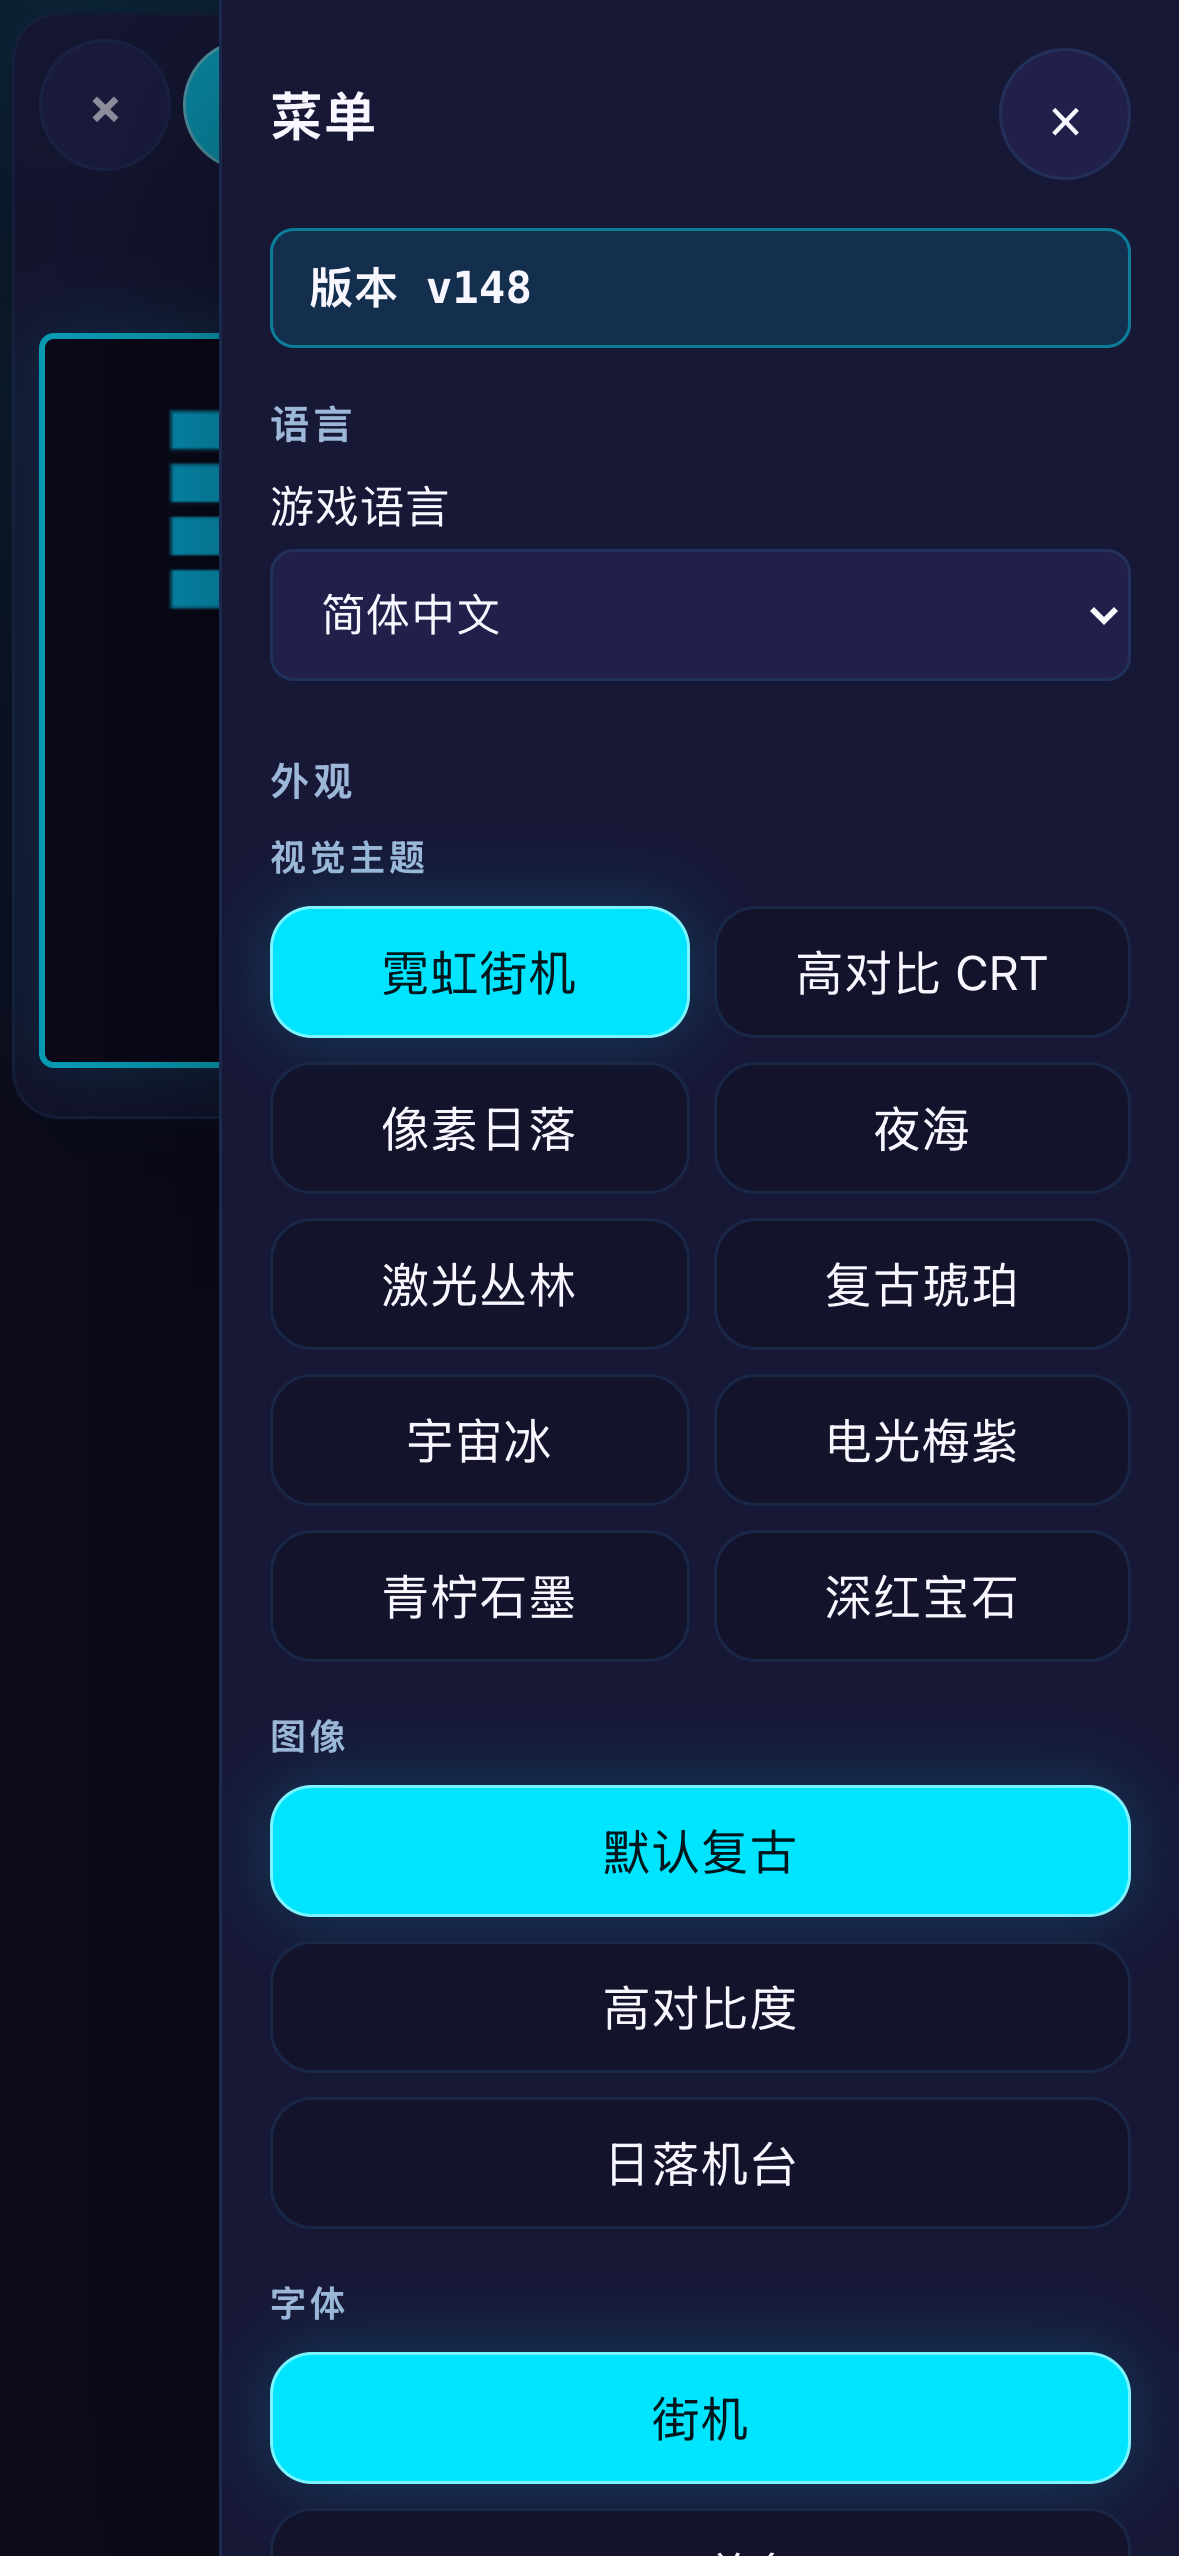
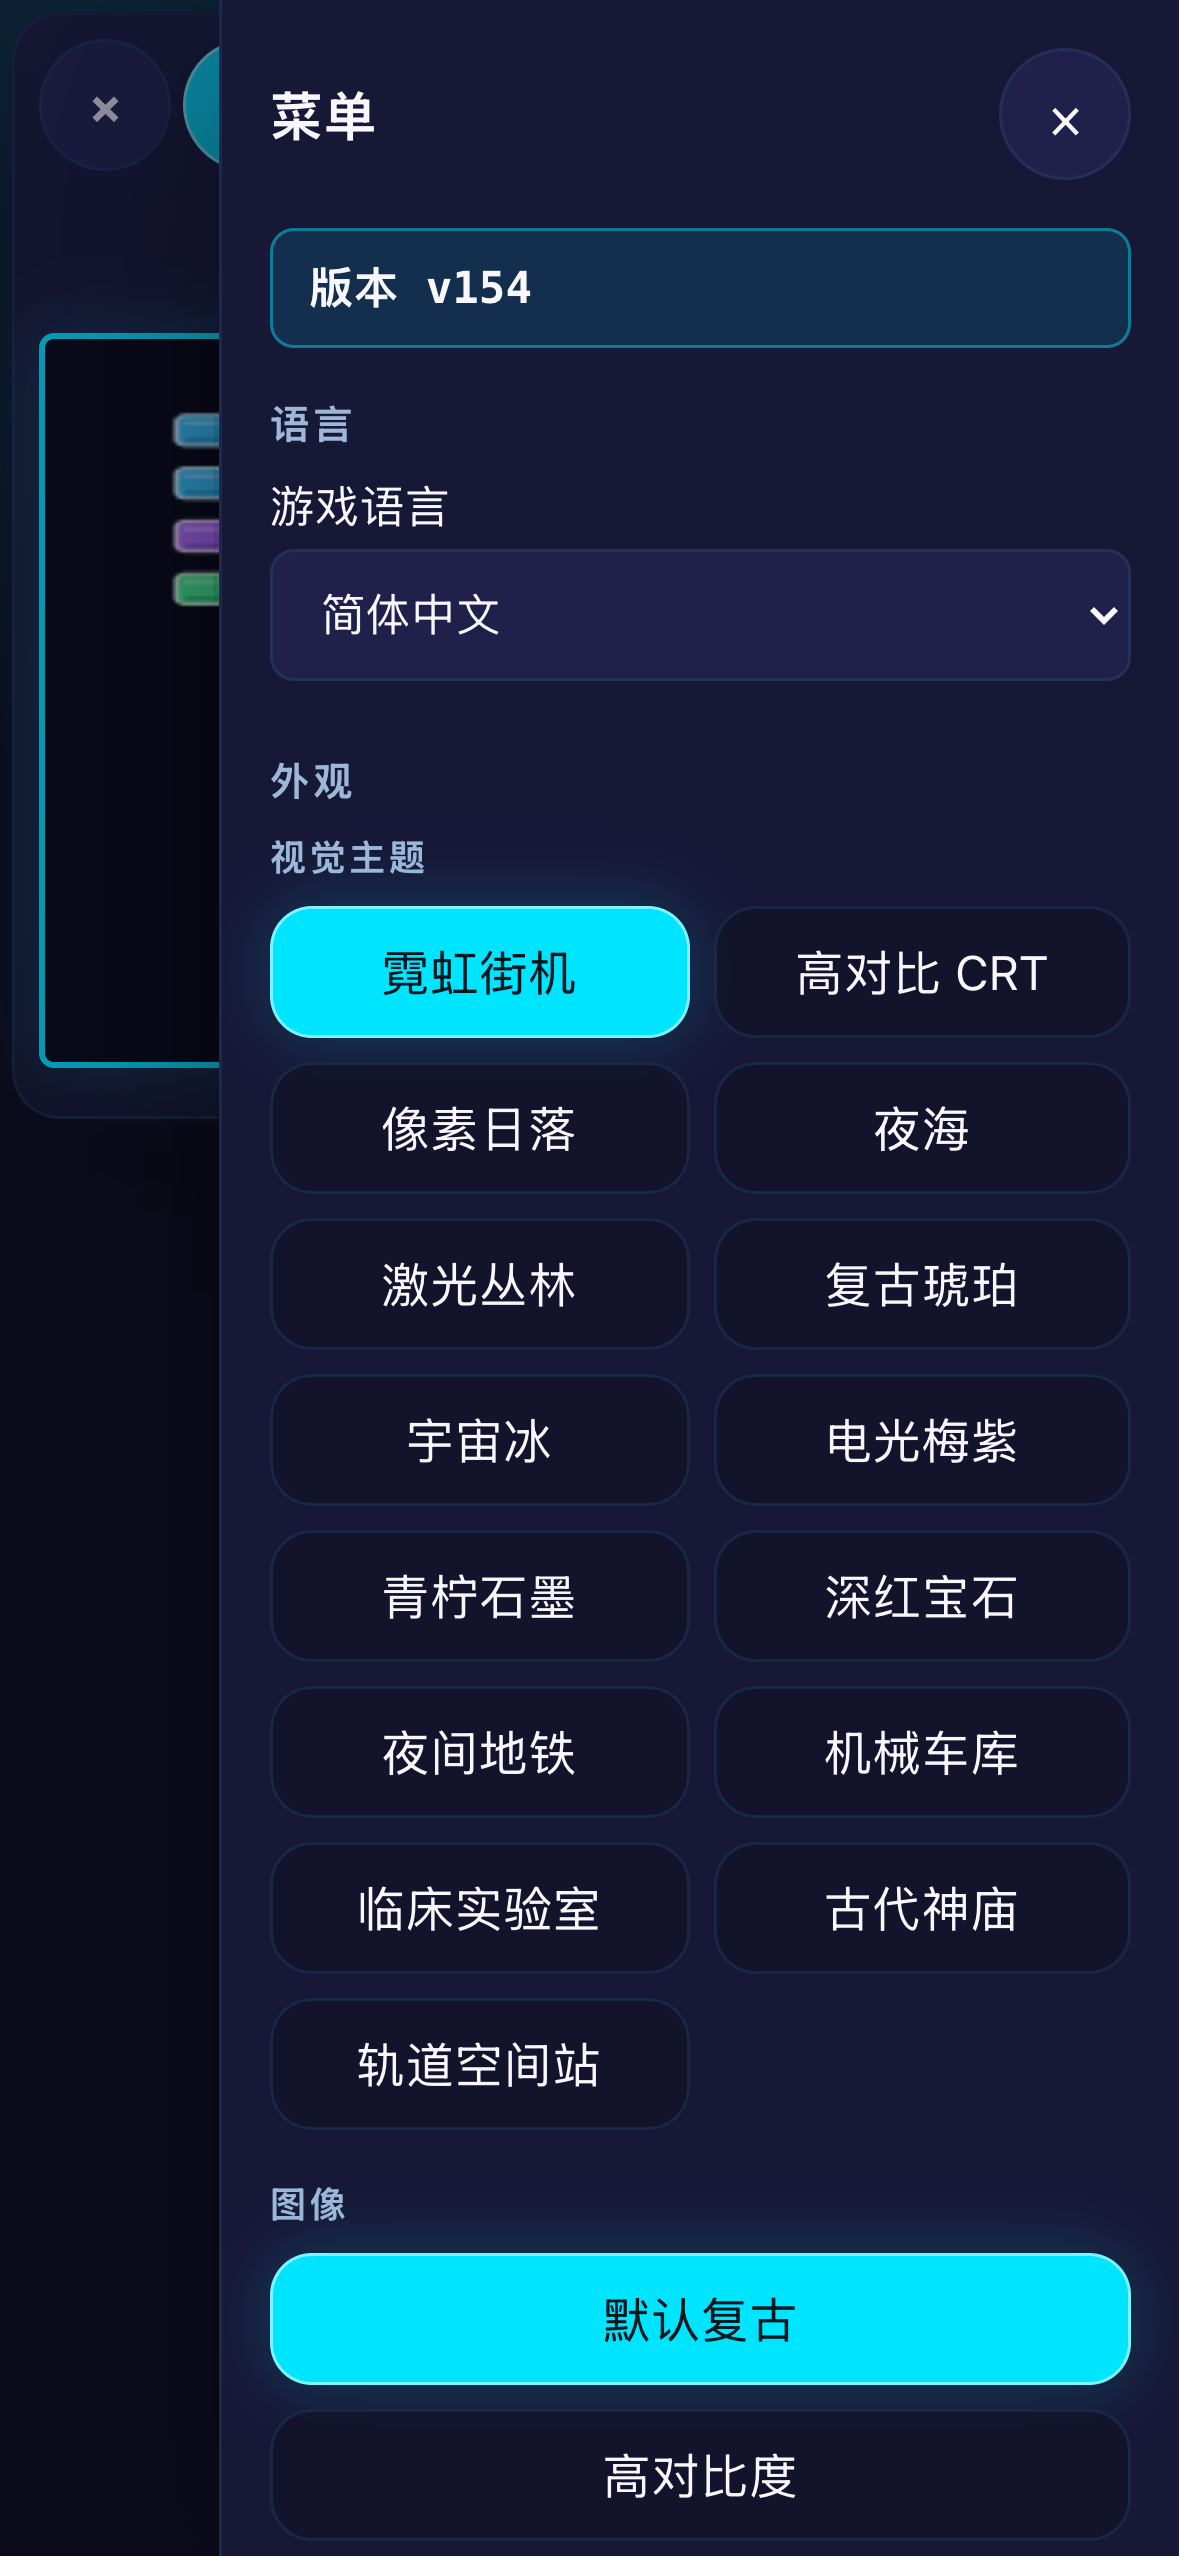
test: ampliar cobertura de i18n (#144)

Changed region(s): [[0.2137, 0.6491, 0.9771, 1.0], [0.1221, 0.1545, 0.1832, 0.2473], [0.3969, 0.0927, 0.458, 0.1236]]

diff --git a/src/i18n/messages.ts b/src/i18n/messages.ts
@@ -345,9 +345,19 @@ const ES_419_MESSAGES: TranslationCatalog = {
   "appearance.option.electric-plum": "Ciruela eléctrica",
   "appearance.option.lime-graphite": "Lima grafito",
   "appearance.option.ruby-depth": "Rubí profundo",
+  "appearance.option.real-metro-night": "Metro nocturno",
+  "appearance.option.real-auto-garage": "Taller mecánico",
+  "appearance.option.real-bio-lab": "Laboratorio clínico",
+  "appearance.option.real-ancient-temple": "Templo antiguo",
+  "appearance.option.real-orbital-station": "Estación orbital",
   "appearance.option.retro-default": "Retro predeterminado",
   "appearance.option.high-contrast": "Alto contraste",
   "appearance.option.sunset-cabinet": "Cabina atardecer",
+  "appearance.option.real-metro-tunnel": "Metro realista",
+  "appearance.option.real-workshop-steel": "Taller realista",
+  "appearance.option.real-bio-lab-glass": "Laboratorio realista",
+  "appearance.option.real-temple-stone": "Templo realista",
+  "appearance.option.real-orbital-deck": "Órbita realista",
   "appearance.option.arcade-ui": "Arcade",
   "appearance.option.crt-mono": "CRT mono",
   "appearance.option.block-pixel": "Bloques pixelados",
@@ -466,9 +476,19 @@ const HI_IN_MESSAGES: TranslationCatalog = {
   "appearance.option.electric-plum": "इलेक्ट्रिक प्लम",
   "appearance.option.lime-graphite": "लाइम ग्रेफाइट",
   "appearance.option.ruby-depth": "गहरा रूबी",
+  "appearance.option.real-metro-night": "रात का मेट्रो",
+  "appearance.option.real-auto-garage": "मैकेनिक गैराज",
+  "appearance.option.real-bio-lab": "क्लिनिकल लैब",
+  "appearance.option.real-ancient-temple": "प्राचीन मंदिर",
+  "appearance.option.real-orbital-station": "ऑर्बिटल स्टेशन",
   "appearance.option.retro-default": "डिफ़ॉल्ट रेट्रो",
   "appearance.option.high-contrast": "उच्च कंट्रास्ट",
   "appearance.option.sunset-cabinet": "सूर्यास्त कैबिन",
+  "appearance.option.real-metro-tunnel": "यथार्थ मेट्रो",
+  "appearance.option.real-workshop-steel": "यथार्थ गैराज",
+  "appearance.option.real-bio-lab-glass": "यथार्थ लैब",
+  "appearance.option.real-temple-stone": "यथार्थ मंदिर",
+  "appearance.option.real-orbital-deck": "यथार्थ कक्षा",
   "appearance.option.arcade-ui": "आर्केड",
   "appearance.option.crt-mono": "CRT मोनो",
   "appearance.option.block-pixel": "पिक्सेल ब्लॉक",
@@ -560,9 +580,19 @@ const DE_MESSAGES: TranslationCatalog = {
   "appearance.option.electric-plum": "Elektrische Pflaume",
   "appearance.option.lime-graphite": "Limette-Grafit",
   "appearance.option.ruby-depth": "Tiefer Rubin",
+  "appearance.option.real-metro-night": "Nacht-Metro",
+  "appearance.option.real-auto-garage": "Werkstatt",
+  "appearance.option.real-bio-lab": "Kliniklabor",
+  "appearance.option.real-ancient-temple": "Alter Tempel",
+  "appearance.option.real-orbital-station": "Orbitalstation",
   "appearance.option.retro-default": "Standard-Retro",
   "appearance.option.high-contrast": "Hoher Kontrast",
   "appearance.option.sunset-cabinet": "Sonnenuntergang-Kabine",
+  "appearance.option.real-metro-tunnel": "Realistische Metro",
+  "appearance.option.real-workshop-steel": "Realistische Werkstatt",
+  "appearance.option.real-bio-lab-glass": "Realistisches Labor",
+  "appearance.option.real-temple-stone": "Realistischer Tempel",
+  "appearance.option.real-orbital-deck": "Realistischer Orbit",
   "appearance.option.arcade-ui": "Arcade",
   "appearance.option.crt-mono": "CRT Mono",
   "appearance.option.block-pixel": "Pixelblöcke",
@@ -652,9 +682,19 @@ const FR_MESSAGES: TranslationCatalog = {
   "appearance.option.electric-plum": "Prune électrique",
   "appearance.option.lime-graphite": "Citron vert graphite",
   "appearance.option.ruby-depth": "Rubis profond",
+  "appearance.option.real-metro-night": "Métro nocturne",
+  "appearance.option.real-auto-garage": "Garage mécanique",
+  "appearance.option.real-bio-lab": "Labo clinique",
+  "appearance.option.real-ancient-temple": "Temple ancien",
+  "appearance.option.real-orbital-station": "Station orbitale",
   "appearance.option.retro-default": "Rétro par défaut",
   "appearance.option.high-contrast": "Fort contraste",
   "appearance.option.sunset-cabinet": "Cabine coucher de soleil",
+  "appearance.option.real-metro-tunnel": "Métro réaliste",
+  "appearance.option.real-workshop-steel": "Garage réaliste",
+  "appearance.option.real-bio-lab-glass": "Labo réaliste",
+  "appearance.option.real-temple-stone": "Temple réaliste",
+  "appearance.option.real-orbital-deck": "Orbite réaliste",
   "appearance.option.arcade-ui": "Arcade",
   "appearance.option.crt-mono": "CRT mono",
   "appearance.option.block-pixel": "Blocs pixel",
@@ -744,9 +784,19 @@ const IT_MESSAGES: TranslationCatalog = {
   "appearance.option.electric-plum": "Prugna elettrica",
   "appearance.option.lime-graphite": "Lime grafite",
   "appearance.option.ruby-depth": "Rubino profondo",
+  "appearance.option.real-metro-night": "Metro notturna",
+  "appearance.option.real-auto-garage": "Officina meccanica",
+  "appearance.option.real-bio-lab": "Laboratorio clinico",
+  "appearance.option.real-ancient-temple": "Tempio antico",
+  "appearance.option.real-orbital-station": "Stazione orbitale",
   "appearance.option.retro-default": "Retrò predefinito",
   "appearance.option.high-contrast": "Alto contrasto",
   "appearance.option.sunset-cabinet": "Cabina tramonto",
+  "appearance.option.real-metro-tunnel": "Metro realistica",
+  "appearance.option.real-workshop-steel": "Officina realistica",
+  "appearance.option.real-bio-lab-glass": "Laboratorio realistico",
+  "appearance.option.real-temple-stone": "Tempio realistico",
+  "appearance.option.real-orbital-deck": "Orbita realistica",
   "appearance.option.arcade-ui": "Arcade",
   "appearance.option.crt-mono": "CRT mono",
   "appearance.option.block-pixel": "Blocchi pixel",
@@ -822,9 +872,19 @@ const JA_MESSAGES: TranslationCatalog = {
   "appearance.option.electric-plum": "エレクトリックプラム",
   "appearance.option.lime-graphite": "ライムグラファイト",
   "appearance.option.ruby-depth": "ディープルビー",
+  "appearance.option.real-metro-night": "夜の地下鉄",
+  "appearance.option.real-auto-garage": "整備工場",
+  "appearance.option.real-bio-lab": "臨床ラボ",
+  "appearance.option.real-ancient-temple": "古代寺院",
+  "appearance.option.real-orbital-station": "軌道ステーション",
   "appearance.option.retro-default": "標準レトロ",
   "appearance.option.high-contrast": "高コントラスト",
   "appearance.option.sunset-cabinet": "サンセット筐体",
+  "appearance.option.real-metro-tunnel": "リアル地下鉄",
+  "appearance.option.real-workshop-steel": "リアル工場",
+  "appearance.option.real-bio-lab-glass": "リアルラボ",
+  "appearance.option.real-temple-stone": "リアル寺院",
+  "appearance.option.real-orbital-deck": "リアル軌道",
   "appearance.option.arcade-ui": "アーケード",
   "appearance.option.crt-mono": "CRT モノ",
   "appearance.option.block-pixel": "ピクセルブロック",
@@ -914,9 +974,19 @@ const KO_MESSAGES: TranslationCatalog = {
   "appearance.option.electric-plum": "전기 자두",
   "appearance.option.lime-graphite": "라임 그래파이트",
   "appearance.option.ruby-depth": "깊은 루비",
+  "appearance.option.real-metro-night": "야간 지하철",
+  "appearance.option.real-auto-garage": "정비 차고",
+  "appearance.option.real-bio-lab": "임상 연구실",
+  "appearance.option.real-ancient-temple": "고대 사원",
+  "appearance.option.real-orbital-station": "궤도 정거장",
   "appearance.option.retro-default": "기본 레트로",
   "appearance.option.high-contrast": "고대비",
   "appearance.option.sunset-cabinet": "석양 캐비닛",
+  "appearance.option.real-metro-tunnel": "사실적 지하철",
+  "appearance.option.real-workshop-steel": "사실적 차고",
+  "appearance.option.real-bio-lab-glass": "사실적 연구실",
+  "appearance.option.real-temple-stone": "사실적 사원",
+  "appearance.option.real-orbital-deck": "사실적 궤도",
   "appearance.option.arcade-ui": "아케이드",
   "appearance.option.crt-mono": "CRT 모노",
   "appearance.option.block-pixel": "픽셀 블록",
@@ -992,9 +1062,19 @@ const ID_MESSAGES: TranslationCatalog = {
   "appearance.option.electric-plum": "Plum elektrik",
   "appearance.option.lime-graphite": "Limau grafit",
   "appearance.option.ruby-depth": "Ruby dalam",
+  "appearance.option.real-metro-night": "Metro malam",
+  "appearance.option.real-auto-garage": "Bengkel mekanik",
+  "appearance.option.real-bio-lab": "Lab klinis",
+  "appearance.option.real-ancient-temple": "Kuil kuno",
+  "appearance.option.real-orbital-station": "Stasiun orbit",
   "appearance.option.retro-default": "Retro default",
   "appearance.option.high-contrast": "Kontras tinggi",
   "appearance.option.sunset-cabinet": "Kabinet senja",
+  "appearance.option.real-metro-tunnel": "Metro realistis",
+  "appearance.option.real-workshop-steel": "Bengkel realistis",
+  "appearance.option.real-bio-lab-glass": "Lab realistis",
+  "appearance.option.real-temple-stone": "Kuil realistis",
+  "appearance.option.real-orbital-deck": "Orbit realistis",
   "appearance.option.arcade-ui": "Arkade",
   "appearance.option.crt-mono": "CRT mono",
   "appearance.option.block-pixel": "Blok pixel",
@@ -1065,9 +1145,19 @@ const VI_MESSAGES: TranslationCatalog = {
   "appearance.option.electric-plum": "Mận điện",
   "appearance.option.lime-graphite": "Chanh graphite",
   "appearance.option.ruby-depth": "Ruby sâu",
+  "appearance.option.real-metro-night": "Tàu điện đêm",
+  "appearance.option.real-auto-garage": "Xưởng cơ khí",
+  "appearance.option.real-bio-lab": "Phòng lab lâm sàng",
+  "appearance.option.real-ancient-temple": "Đền cổ",
+  "appearance.option.real-orbital-station": "Trạm quỹ đạo",
   "appearance.option.retro-default": "Retro mặc định",
   "appearance.option.high-contrast": "Tương phản cao",
   "appearance.option.sunset-cabinet": "Tủ hoàng hôn",
+  "appearance.option.real-metro-tunnel": "Tàu điện thực",
+  "appearance.option.real-workshop-steel": "Xưởng thực",
+  "appearance.option.real-bio-lab-glass": "Lab thực",
+  "appearance.option.real-temple-stone": "Đền thực",
+  "appearance.option.real-orbital-deck": "Quỹ đạo thực",
   "appearance.option.arcade-ui": "Arcade",
   "appearance.option.crt-mono": "CRT đơn sắc",
   "appearance.option.block-pixel": "Khối pixel",
@@ -1138,9 +1228,19 @@ const FIL_MESSAGES: TranslationCatalog = {
   "appearance.option.electric-plum": "Electric plum",
   "appearance.option.lime-graphite": "Lime graphite",
   "appearance.option.ruby-depth": "Malalim na ruby",
+  "appearance.option.real-metro-night": "Gabing metro",
+  "appearance.option.real-auto-garage": "Garahe ng mekaniko",
+  "appearance.option.real-bio-lab": "Klinikal na lab",
+  "appearance.option.real-ancient-temple": "Sinaunang templo",
+  "appearance.option.real-orbital-station": "Istasyong orbital",
   "appearance.option.retro-default": "Paunang retro",
   "appearance.option.high-contrast": "Mataas na contrast",
   "appearance.option.sunset-cabinet": "Kabinet sa paglubog",
+  "appearance.option.real-metro-tunnel": "Makatotohanang metro",
+  "appearance.option.real-workshop-steel": "Makatotohanang garahe",
+  "appearance.option.real-bio-lab-glass": "Makatotohanang lab",
+  "appearance.option.real-temple-stone": "Makatotohanang templo",
+  "appearance.option.real-orbital-deck": "Makatotohanang orbit",
   "appearance.option.arcade-ui": "Arcade",
   "appearance.option.crt-mono": "CRT mono",
   "appearance.option.block-pixel": "Mga pixel block",
@@ -1211,9 +1311,19 @@ const TH_MESSAGES: TranslationCatalog = {
   "appearance.option.electric-plum": "พลัมไฟฟ้า",
   "appearance.option.lime-graphite": "ไลม์กราไฟต์",
   "appearance.option.ruby-depth": "ทับทิมลึก",
+  "appearance.option.real-metro-night": "รถไฟใต้ดินกลางคืน",
+  "appearance.option.real-auto-garage": "อู่ช่างยนต์",
+  "appearance.option.real-bio-lab": "ห้องแล็บคลินิก",
+  "appearance.option.real-ancient-temple": "วิหารโบราณ",
+  "appearance.option.real-orbital-station": "สถานีวงโคจร",
   "appearance.option.retro-default": "เรโทรเริ่มต้น",
   "appearance.option.high-contrast": "คอนทราสต์สูง",
   "appearance.option.sunset-cabinet": "ตู้พระอาทิตย์ตก",
+  "appearance.option.real-metro-tunnel": "รถไฟใต้ดินสมจริง",
+  "appearance.option.real-workshop-steel": "อู่สมจริง",
+  "appearance.option.real-bio-lab-glass": "แล็บสมจริง",
+  "appearance.option.real-temple-stone": "วิหารสมจริง",
+  "appearance.option.real-orbital-deck": "วงโคจรสมจริง",
   "appearance.option.arcade-ui": "อาร์เคด",
   "appearance.option.crt-mono": "CRT โมโน",
   "appearance.option.block-pixel": "บล็อกพิกเซล",
@@ -1284,9 +1394,19 @@ const ZH_CN_MESSAGES: TranslationCatalog = {
   "appearance.option.electric-plum": "电光梅紫",
   "appearance.option.lime-graphite": "青柠石墨",
   "appearance.option.ruby-depth": "深红宝石",
+  "appearance.option.real-metro-night": "夜间地铁",
+  "appearance.option.real-auto-garage": "机械车库",
+  "appearance.option.real-bio-lab": "临床实验室",
+  "appearance.option.real-ancient-temple": "古代神庙",
+  "appearance.option.real-orbital-station": "轨道空间站",
   "appearance.option.retro-default": "默认复古",
   "appearance.option.high-contrast": "高对比度",
   "appearance.option.sunset-cabinet": "日落机台",
+  "appearance.option.real-metro-tunnel": "写实地铁",
+  "appearance.option.real-workshop-steel": "写实车库",
+  "appearance.option.real-bio-lab-glass": "写实实验室",
+  "appearance.option.real-temple-stone": "写实神庙",
+  "appearance.option.real-orbital-deck": "写实轨道",
   "appearance.option.arcade-ui": "街机",
   "appearance.option.crt-mono": "CRT 单色",
   "appearance.option.block-pixel": "像素方块",

diff --git a/src/i18n/i18n.test.tsx b/src/i18n/i18n.test.tsx
@@ -25,6 +25,8 @@ const ENGLISH_LOCALE: AppLocale = "en";
 const GERMAN_LOCALE: AppLocale = "de";
 const UNSUPPORTED_DUTCH_LANGUAGE = "nl-NL";
 const GERMAN_BROWSER_LANGUAGE = "de-DE";
+const FRENCH_BROWSER_LANGUAGE = "fr-FR";
+const FRENCH_LOCALE: AppLocale = "fr";
 const CANONICAL_ROOT = "https://brikaya.com/";
 const SPANISH_CANONICAL = "https://brikaya.com/es-419/";
 const CHINESE_TITLE = "Brikaya — 打砖块街机";
@@ -46,6 +48,16 @@ const LOCALIZED_APPEARANCE_KEYS: TranslationKey[] = [
   "appearance.option.neon-arcade",
   "appearance.option.retro-default",
   "appearance.option.sunset-cabinet",
+  "appearance.option.real-metro-night",
+  "appearance.option.real-auto-garage",
+  "appearance.option.real-bio-lab",
+  "appearance.option.real-ancient-temple",
+  "appearance.option.real-orbital-station",
+  "appearance.option.real-metro-tunnel",
+  "appearance.option.real-workshop-steel",
+  "appearance.option.real-bio-lab-glass",
+  "appearance.option.real-temple-stone",
+  "appearance.option.real-orbital-deck",
   "appearance.option.block-pixel",
 ];
 const USER_COPY_KEYS: TranslationKey[] = [
@@ -263,6 +275,31 @@ describe("i18n offline do Brikaya", () => {
 
     expect(screen.getByText(GERMAN_LOCALE)).toBeInTheDocument();
     expect(window.location.pathname).toBe(getLocalePath(GERMAN_LOCALE));
+  });
+
+  it("usa navigator.language quando navigator.languages não está disponível", () => {
+    Object.defineProperty(window.navigator, NAVIGATOR_LANGUAGES_PROPERTY, {
+      configurable: true,
+      value: undefined,
+    });
+    Object.defineProperty(window.navigator, NAVIGATOR_LANGUAGE_PROPERTY, {
+      configurable: true,
+      value: FRENCH_BROWSER_LANGUAGE,
+    });
+    setBrowserTimeZone(MEXICO_TIME_ZONE);
+
+    render(
+      <I18nProvider>
+        <LocaleProbe />
+      </I18nProvider>,
+    );
+
+    expect(screen.getByText(FRENCH_LOCALE)).toBeInTheDocument();
+    expect(window.location.pathname).toBe(getLocalePath(FRENCH_LOCALE));
+    expect(window.localStorage.setItem).not.toHaveBeenCalledWith(
+      LOCALE_STORAGE_KEY,
+      FRENCH_LOCALE,
+    );
   });
 
   it("usa fuso horário do navegador quando o idioma não é suportado", () => {

diff --git a/tests/e2e/cloudflare-i18n-seo-qa.js b/tests/e2e/cloudflare-i18n-seo-qa.js
@@ -356,17 +356,31 @@ async function validateRuntimeBrowserLocale(baseUrl) {
       BROWSER_AUTO_EXPECTED_PATH,
     );
 
-    const runtimeState = await page.evaluate(() => ({
-      lang: document.documentElement.lang,
-      canonical: document
-        .querySelector('link[rel="canonical"]')
-        ?.getAttribute("href"),
-      path: window.location.pathname,
-    }));
+    const runtimeState = await page.evaluate(
+      (localeKey, sourceKey) => ({
+        lang: document.documentElement.lang,
+        canonical: document
+          .querySelector('link[rel="canonical"]')
+          ?.getAttribute("href"),
+        path: window.location.pathname,
+        storedLocale: window.localStorage.getItem(localeKey),
+        storedSource: window.localStorage.getItem(sourceKey),
+      }),
+      LOCALE_STORAGE_KEY,
+      LOCALE_SOURCE_STORAGE_KEY,
+    );
     assert(
       runtimeState.canonical ===
         new URL(BROWSER_AUTO_EXPECTED_PATH, baseUrl).href,
       "canonical não acompanhou idioma automático do navegador",
+    );
+    assert(
+      runtimeState.storedLocale === null,
+      "detecção automática por idioma não deve salvar locale manual",
+    );
+    assert(
+      runtimeState.storedSource === null,
+      "detecção automática por idioma não deve salvar origem manual",
     );
 
     return runtimeState;

diff --git a/CHANGELOG.md b/CHANGELOG.md
@@ -3,6 +3,29 @@
 - Implementação completa do jogo Breakout com suporte offline
 - Resolvido conflitos para integrar mudancas da main
 
+## [1.32.14] - 2026-07-04
+### Alterado
+- Cobertura de i18n passa a validar `navigator.language` quando `navigator.languages` não está disponível, preservando fallback por fuso somente depois dos idiomas do navegador.
+- Cobertura de aparência localizada passa a incluir os cinco novos temas realistas e os cinco novos conjuntos de imagens realistas.
+- QA publicado de i18n passa a registrar que detecção automática por idioma não grava locale nem origem manual.
+
+### Corrigido
+- Rótulos dos novos temas e conjuntos realistas deixam de cair no inglês em idiomas não ingleses.
+
+### Testado
+- `node --version` → `v23.5.0`.
+- `make help`.
+- RED: `npm test -- src/i18n/i18n.test.tsx --runInBand` falhou em `Night metro` herdado do inglês.
+- GREEN: `npm test -- src/i18n/i18n.test.tsx --runInBand` → 17 testes.
+- `node --check tests/e2e/cloudflare-i18n-seo-qa.js`.
+- `npx prettier --check CHANGELOG.md src/i18n/messages.ts src/i18n/i18n.test.tsx tests/e2e/cloudflare-i18n-seo-qa.js`.
+- `npm test -- --runInBand` → 40 suites / 211 testes.
+- `npm run build`.
+- `make cloudflare-env-check`, `make cloudflare-build` e `make cloudflare-deploy`.
+- `BRICKBREAKER_PUBLIC_URL=https://brikaya.com/ make cloudflare-public-check`.
+- `BRICKBREAKER_PUBLIC_URL=https://brikaya.com/ make cloudflare-i18n-seo-qa`.
+- Varredura textual do diff alterado não encontrou credencial, chave privada ou segredo real.
+
 ## [1.32.13] - 2026-07-04
 ### Adicionado
 - Blocos metálicos passam a ser sorteados em quantidade aleatória de zero a três por fase, com aparência metálica em todos os temas visuais.